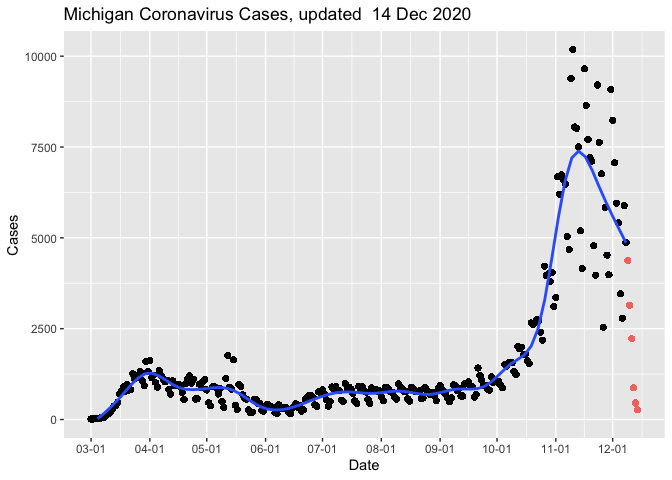
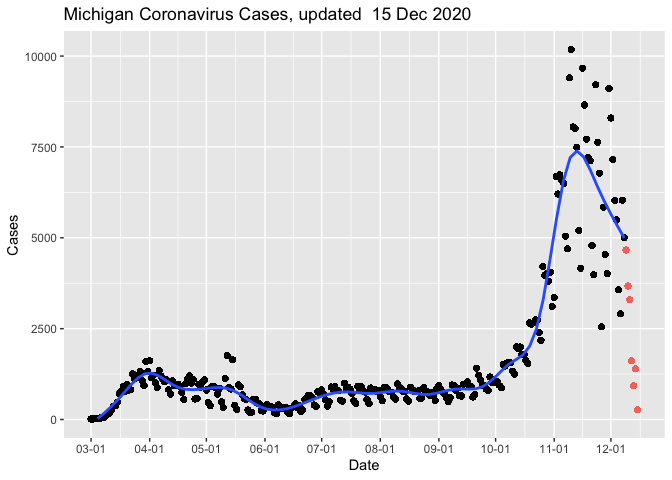
small update

diff --git a/MiCorona.md b/MiCorona.md
@@ -34,7 +34,7 @@ mi_data = readxl::read_excel("data/covid.xlsx")
 glimpse(mi_data)
 ```
 
-    ## Rows: 50,871
+    ## Rows: 51,047
     ## Columns: 8
     ## $ COUNTY            <chr> "Alcona", "Alcona", "Alcona", "Alcona", "Alcona", "…
     ## $ Date              <dttm> 2020-03-01, 2020-03-02, 2020-03-03, 2020-03-04, 20…
@@ -43,7 +43,7 @@ glimpse(mi_data)
     ## $ Deaths            <dbl> 0, 0, 0, 0, 0, 0, 0, 0, 0, 0, 0, 0, 0, 0, 0, 0, 0, …
     ## $ Cases.Cumulative  <dbl> 0, 0, 0, 0, 0, 0, 0, 0, 0, 0, 0, 0, 0, 0, 0, 0, 0, …
     ## $ Deaths.Cumulative <dbl> 0, 0, 0, 0, 0, 0, 0, 0, 0, 0, 0, 0, 0, 0, 0, 0, 0, …
-    ## $ Updated           <dttm> 2020-12-14 13:50:18, 2020-12-14 13:50:18, 2020-12-…
+    ## $ Updated           <dttm> 2020-12-15 15:43:12, 2020-12-15 15:43:12, 2020-12-…
 
 Wrangle Data:
 
@@ -96,5 +96,5 @@ mi_cases_by_day_exclusive %>%
 
 ![](MiCorona_files/figure-gfm/viz-1.png)<!-- -->
 
-Note that the last 6 days of data have been colored red on the graph, as
+Note that the last 7 days of data have been colored red on the graph, as
 they frequently change as more information becomes available.
